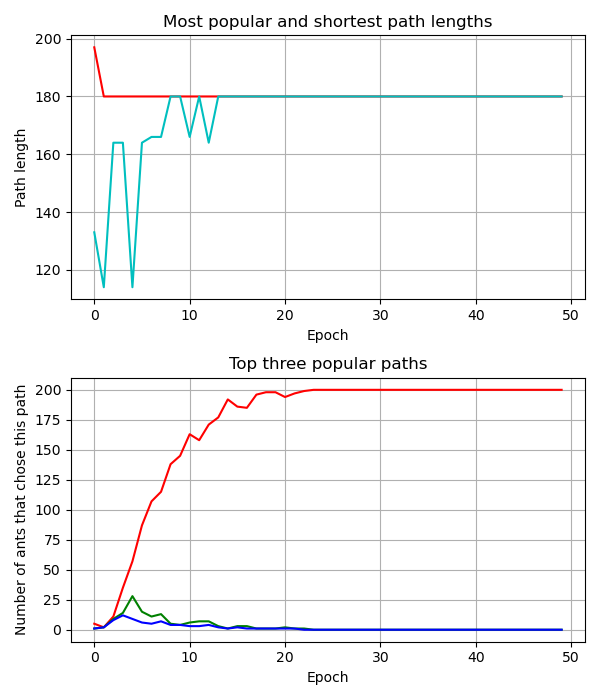
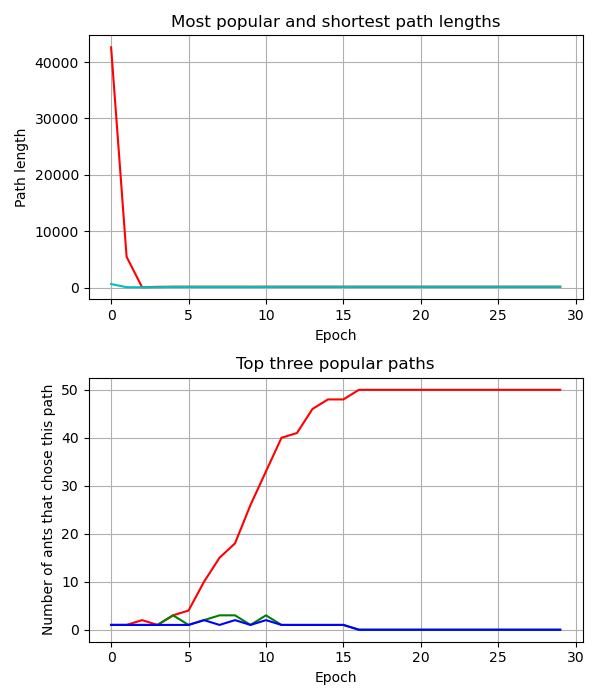
Added time measurement

diff --git a/main.py b/main.py
@@ -5,8 +5,9 @@ import networkx as nx
 from random import randint
 from statistics import mean, stdev
 from matplotlib import pyplot as plt
+import time
 
-NUMBER_OF_NODES = 100
+NUMBER_OF_NODES = 1000
 NUMBER_OF_TESTS = 1
 
 results = {"shortest": [], "dijkstra": [], "ants": []}
@@ -39,11 +40,17 @@ def calculate(print_console=False):
 
     if print_console: print(f"shortest: {shortest_path}\n{shortest_distance}")
 
+    time_start = time.time()
     dijkstra_path, dijkstra_dist = execute_dijkstra(graph, begin, end)
+    time_end = time.time()
+    results['dijkstra_time'] = time_end - time_start
 
     if print_console: print(f"Dijkstra: {dijkstra_path}\n{dijkstra_dist}")
 
+    time_start = time.time()
     ant_path, ant_dist = simulate_colony(graph, begin, end)
+    time_end = time.time()
+    results['ants_time'] = time_end - time_start
 
     if print_console: print(f"Ants: {ant_path}\n{ant_dist}")
 
@@ -64,8 +71,8 @@ def main():
     for result_opt, result_ants in zip(results['shortest'], results['ants']):
         deviation_ants.append(round((result_ants - result_opt) / result_ants * 100, 2))
 
-    print(f"mean deviation of ants: {mean(deviation_ants)}%")
-    print(f"mean deviation of dijkstra: {mean(deviation_dijkstra)}%")
+    print(f"mean deviation of ants: {mean(deviation_ants)}%   time: {results['ants_time']}")
+    print(f"mean deviation of dijkstra: {mean(deviation_dijkstra)}%   time: {results['dijkstra_time']}")
 
     fig, axs = plt.subplots(2, 1, figsize=(8, 10))
     ax = axs[0]

diff --git a/ant_colony.py b/ant_colony.py
@@ -5,11 +5,11 @@ from Ant import Ant
 from dijkstry import dijkstry
 from matplotlib import pyplot as plt
 
-NUMBER_OF_ITERATIONS = 50
-NUMBER_OF_ANTS = 200
+NUMBER_OF_ITERATIONS = 30
+NUMBER_OF_ANTS = 50
 
 PHEROMONE_COEFFICIENT = 2
-EVAPORATION_COEFFICIENT = 0.4
+EVAPORATION_COEFFICIENT = 0.7
 
 
 def simulate_colony(graph, begin, end):
@@ -89,9 +89,9 @@ def simulate_colony(graph, begin, end):
     final_path = determinant_ant.path_walked
 
     # print(final_path)
-    # print(determinant_ant.distance_walked)
+    #print(determinant_ant.distance_walked)
 
-    # create_statistics(iterations, most_common_paths, most_common_paths_counts)
+    create_statistics(iterations, most_common_paths, most_common_paths_counts)
 
     return final_path, determinant_ant.distance_walked
 
